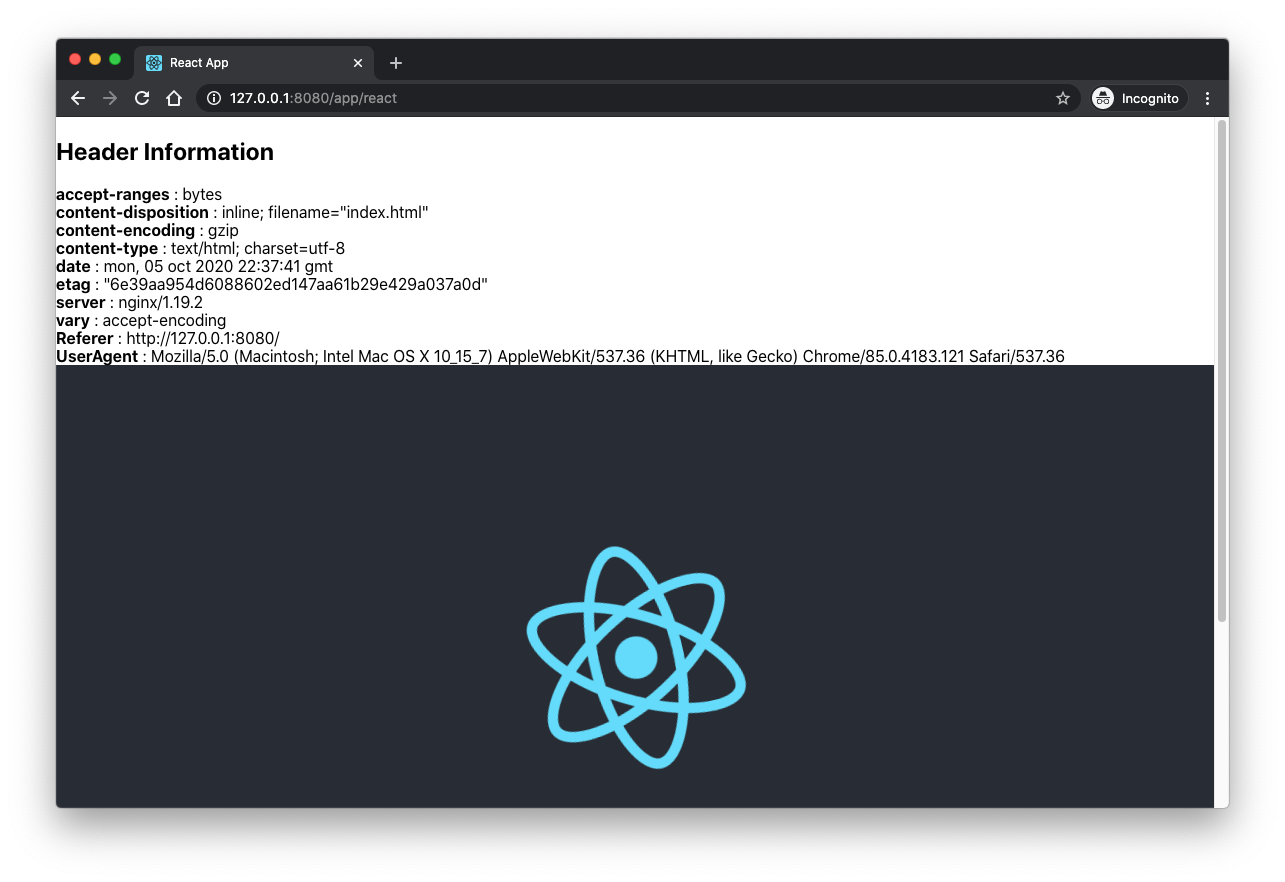
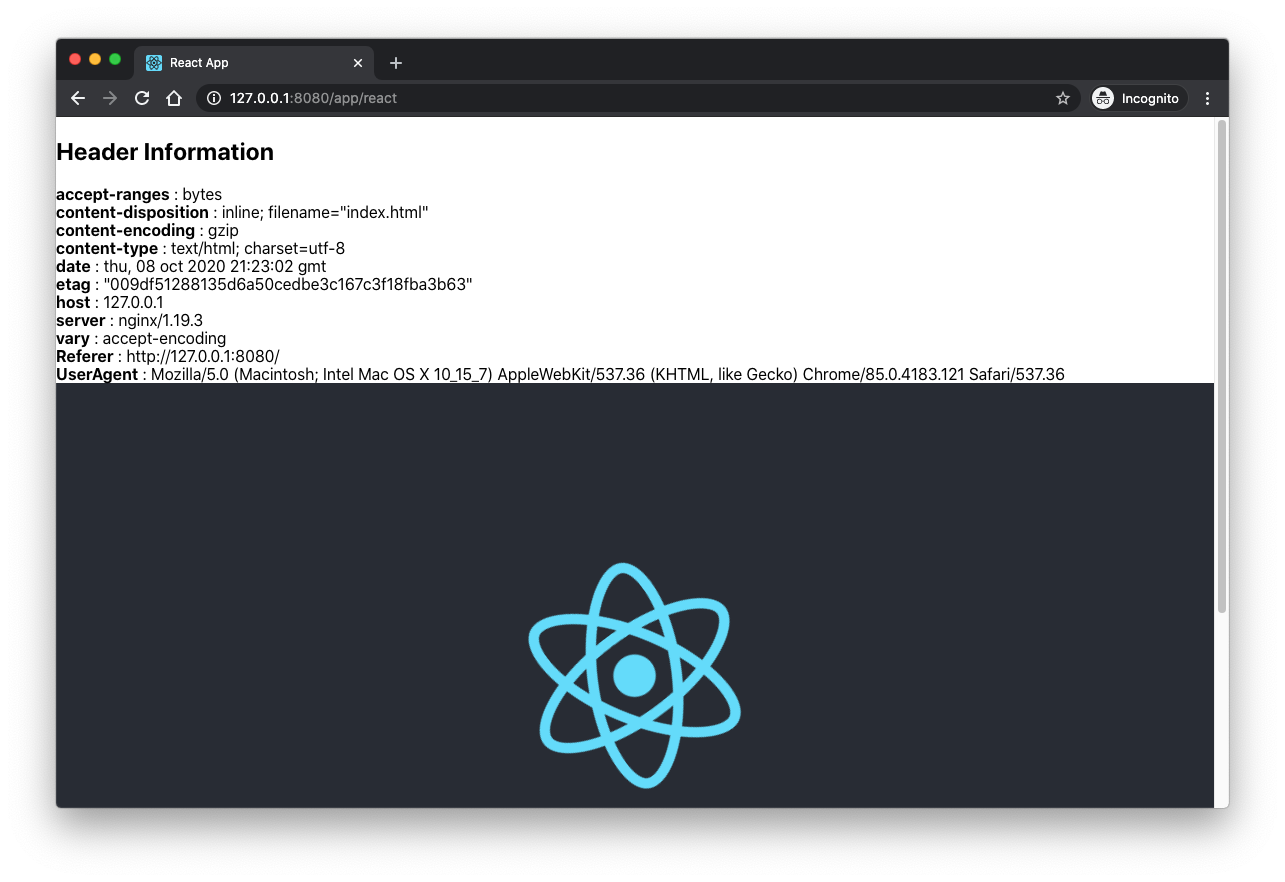
react headers
Display captured headers in React app

Changed region(s): [[0.0311, 0.2755, 0.965, 0.4592], [0.4047, 0.6122, 0.5914, 0.8878]]

diff --git a/react-app/public/index.html b/react-app/public/index.html
@@ -26,14 +26,24 @@
     -->
     <title>React App</title>
     <script type="application/javascript">
-        function getHeaders() {
+        function getHeaders(callback) {
             let req = new XMLHttpRequest();
-            req.open('GET', document.location, false);
+            req.onreadystatechange = function () {
+                if (req.readyState === XMLHttpRequest.DONE) {
+                    //
+                    // The following headers may often be similar
+                    // to those of the original page request...
+                    //
+                    if (callback && typeof callback === 'function') {
+                        callback(req.getAllResponseHeaders());
+                    }
+                }
+            };
+            req.open('HEAD', document.location, false);
             req.send(null);
 
             // associate array to store all values
             let data = {};
-
             // get all headers in one call and parse each item
             let headers = req.getAllResponseHeaders().toLowerCase();
             let aHeaders = headers.split('\n');

diff --git a/README.md b/README.md
@@ -1,11 +1,5 @@
 # CILogon / Vouch-Proxy Example
 
-**WORK IN PROGRESS**
-
-- TODO: properly capture headers set by Nginx with React
-
----
-
 This example is designed to demonstrate how to use Vouch-Proxy (with Nginx) to enable authentication using [CILogon's OpenID Connect (OIDC) service](https://www.cilogon.org/oidc) for gaining access to generic web applications.
 
 ![](images/cilogon-vouch-proxy.jpg)
@@ -207,15 +201,11 @@ The contents of the `X-Vouch-Idp-Idtoken` is the identity JWT as returned by CIL
 
 ![](images/react-insecure.png) 
 
-- **NOTE**: the header information being shown in the React section is not accurate at this time and is being investigated.
-
 Use the back button to return to the example options page.
 
 **React (secure)**: If you've previously authenticated you will pass through the vouch-proxy validation directly to the React page. Otherwise you'll be redirected to the CILogon Authentication page.
 
 ![](images/react-secure.png)
-
-- **NOTE**: the header information being shown in the React section is not accurate at this time and is being investigated.
 
 ## References
 
